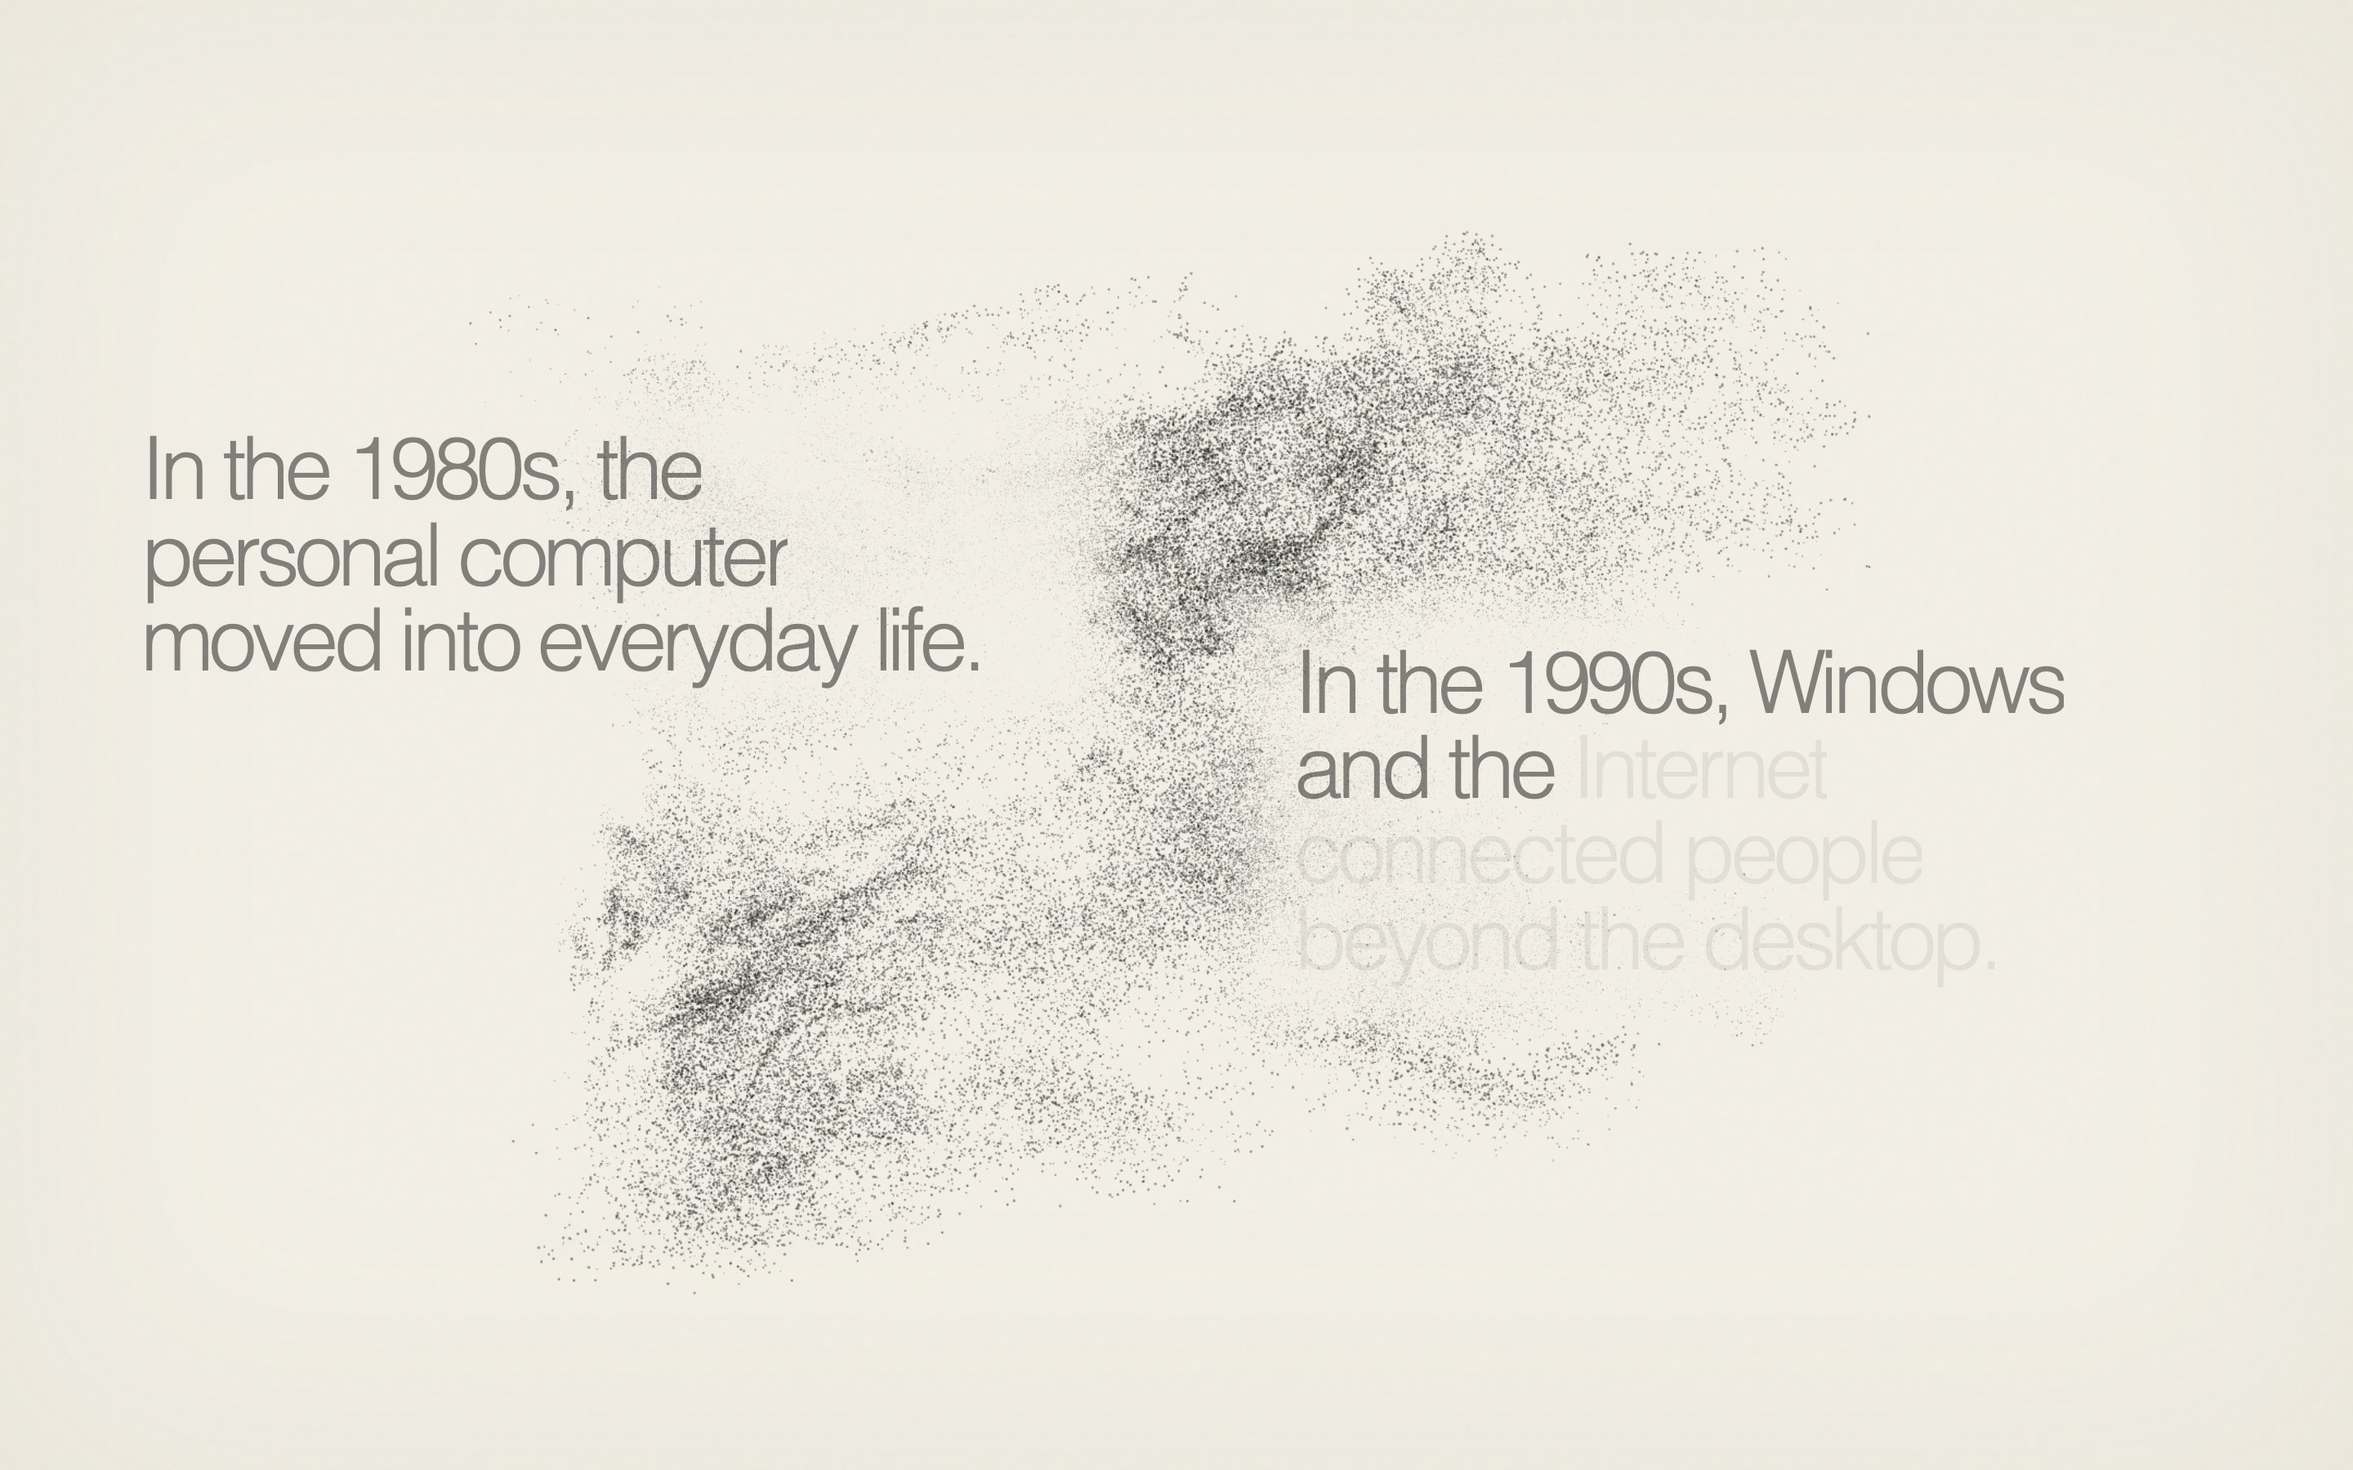
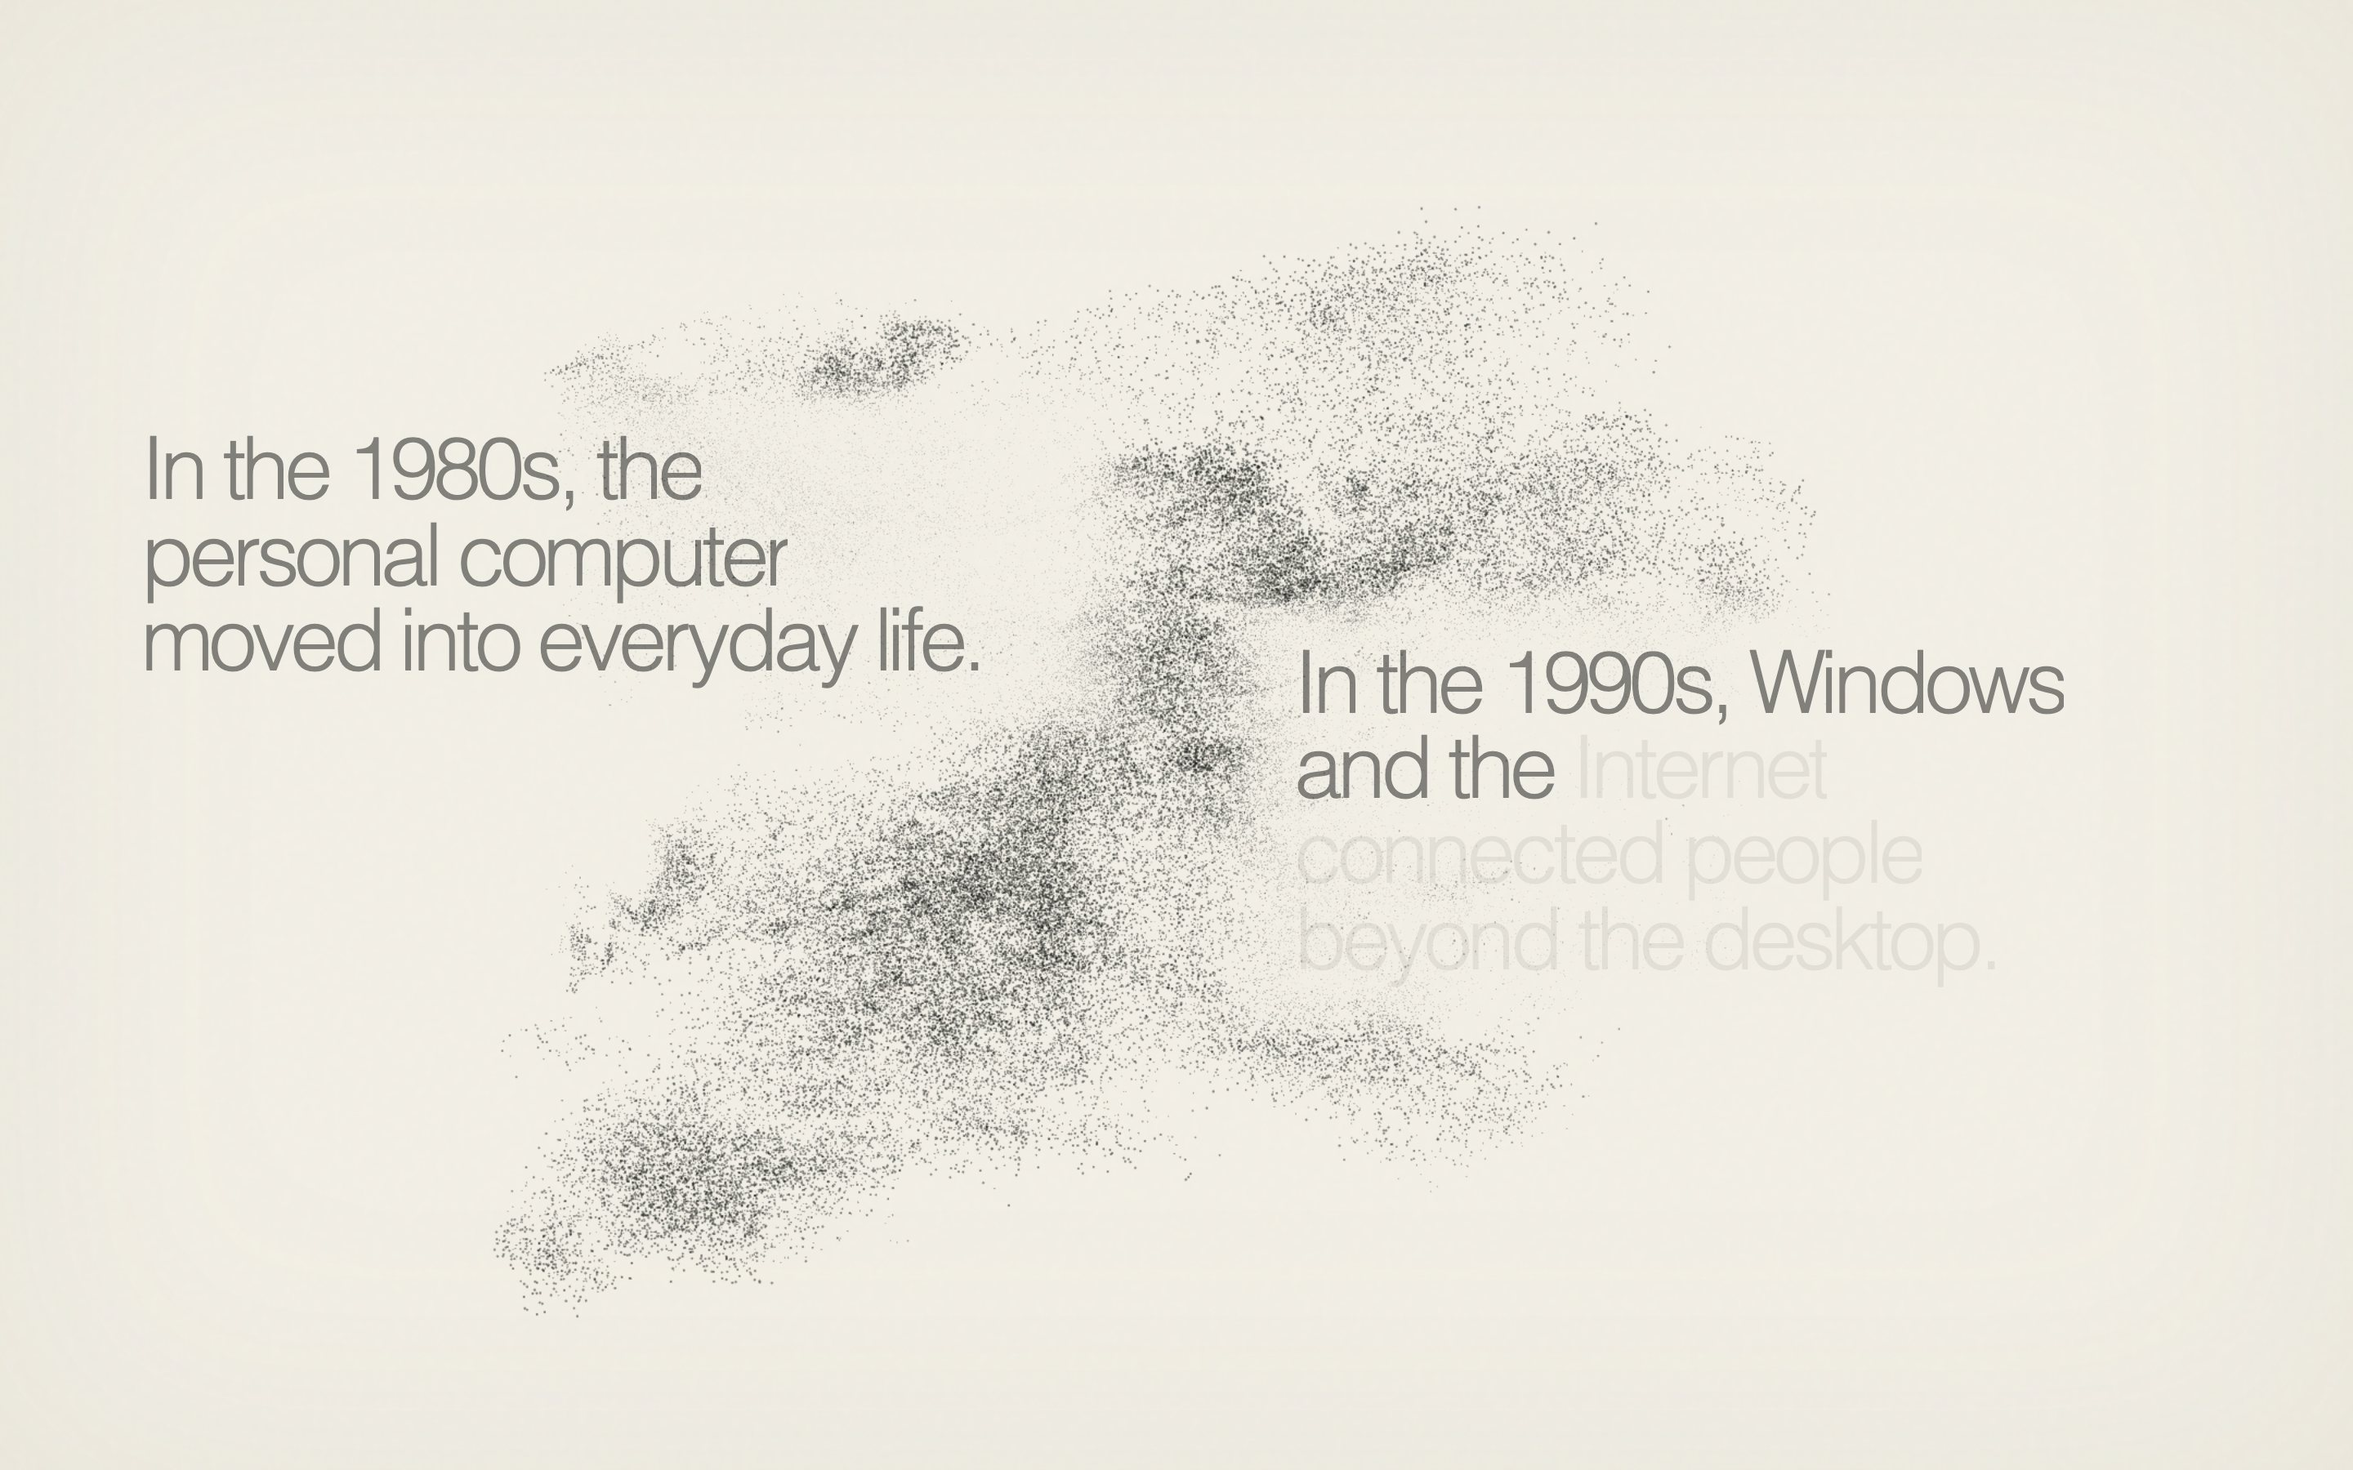
Refine launch smoke and closing
Copilot-Session: fb138555-df43-4c0c-b323-42f33e170b86

Changed region(s): [[0.2188, 0.1556, 0.7812, 0.8711], [0.25, 0.2178, 0.4062, 0.28], [0.4375, 0.2178, 0.4688, 0.2489]]

diff --git a/site/src/geometry/scenes.ts b/site/src/geometry/scenes.ts
@@ -193,57 +193,43 @@ function windowsInternetScene(): WeightedSampler[] {
     4.35,
     3.0,
     "HTTP://",
-    6,
+    5,
   );
   const mailWindow = interfacePanelSamplers(
     [0.1, -0.42, 0.2],
     3.45,
     2.35,
     "MAIL @",
-    5,
+    4,
   );
   const terminalWindow = interfacePanelSamplers(
     [-2.05, -1.28, 0.72],
     2.45,
     1.35,
     "> CONNECT",
-    4,
-  );
-  const contactsWindow = interfacePanelSamplers(
-    [1.48, 1.02, 0.56],
-    1.85,
-    1.55,
-    "ONLINE",
-    5,
+    3,
   );
   const windowsPanes = paneSamplers([-2.7, 1.55, 0.66], 0.24);
   const envelope = envelopeSamplers([0.72, 0.12, 0.48], 0.95, 0.58);
   const nodeCenters: Vec3[] = [
-    [-3.25, 1.95, -0.75],
-    [-2.75, -2.0, 0.3],
-    [-1.1, 2.05, 0.15],
-    [0.65, 1.95, -0.35],
-    [1.85, 1.75, 0.6],
-    [2.35, 0.35, -0.45],
-    [1.85, -1.55, 0.55],
-    [0.25, -1.95, -0.2],
+    [-3.05, 1.75, -0.7],
+    [-2.6, -1.85, 0.3],
+    [0.25, 1.88, -0.35],
+    [2.3, 0.45, -0.45],
+    [1.55, -1.62, 0.55],
   ];
   const nodes = nodeCenters.map((center) =>
     sphereShellSampler(center, 0.11, 0.035),
   );
-  const connections = nodeCenters.flatMap((center, index) => {
+  const connections = nodeCenters.map((center, index) => {
     const next = nodeCenters[(index + 1) % nodeCenters.length];
-    const opposite = nodeCenters[(index + 3) % nodeCenters.length];
-    return [
-      bezierSampler(
-        center,
-        [center[0] * 0.75, center[1] * 0.35, center[2] + 0.35],
-        [next[0] * 0.75, next[1] * 0.35, next[2] - 0.35],
-        next,
-        0.022,
-      ),
-      lineSampler(center, opposite, 0.018),
-    ];
+    return bezierSampler(
+      center,
+      [center[0] * 0.75, center[1] * 0.35, center[2] + 0.35],
+      [next[0] * 0.75, next[1] * 0.35, next[2] - 0.35],
+      next,
+      0.022,
+    );
   });
   const protocolLabels = [
     textSampler("TCP/IP", {
@@ -267,13 +253,12 @@ function windowsInternetScene(): WeightedSampler[] {
   ];
 
   return [
-    { weight: 0.18, sample: choiceSampler(browserWindow) },
-    { weight: 0.18, sample: choiceSampler(mailWindow) },
-    { weight: 0.13, sample: choiceSampler(terminalWindow) },
-    { weight: 0.1, sample: choiceSampler(contactsWindow) },
-    { weight: 0.07, sample: choiceSampler(windowsPanes) },
-    { weight: 0.08, sample: choiceSampler(envelope) },
-    { weight: 0.16, sample: choiceSampler(connections) },
+    { weight: 0.24, sample: choiceSampler(browserWindow) },
+    { weight: 0.22, sample: choiceSampler(mailWindow) },
+    { weight: 0.14, sample: choiceSampler(terminalWindow) },
+    { weight: 0.08, sample: choiceSampler(windowsPanes) },
+    { weight: 0.1, sample: choiceSampler(envelope) },
+    { weight: 0.12, sample: choiceSampler(connections) },
     { weight: 0.06, sample: choiceSampler(nodes) },
     { weight: 0.04, sample: choiceSampler(protocolLabels) },
   ];
@@ -404,21 +389,16 @@ function agentsScene(): WeightedSampler[] {
     sphereShellSampler(coreCenter, 0.82, 0.05),
     ringSampler(coreCenter, 1.02, 1.02, "xy", 0.045),
     ringSampler(coreCenter, 1.08, 0.72, "xz", 0.045),
-    ringSampler(coreCenter, 0.85, 1.05, "yz", 0.045),
   ];
   const systemSpecs: Array<{ center: Vec3; label: string }> = [
-    { center: [-2.75, 1.42, 0.48], label: "PLAN" },
-    { center: [-1.42, 1.92, 0.18], label: "MEMORY" },
-    { center: [0.08, 2.05, 0.58], label: "SEARCH" },
-    { center: [1.58, 1.82, 0.22], label: "CODE" },
-    { center: [2.88, 1.28, 0.62], label: "TEST" },
-    { center: [3.28, 0.18, 0.24], label: "REVIEW" },
-    { center: [2.92, -1.02, 0.64], label: "DEPLOY" },
-    { center: [1.62, -1.66, 0.22], label: "TOOLS" },
-    { center: [0.15, -1.92, 0.58], label: "DATA" },
-    { center: [-1.35, -1.72, 0.22], label: "MAIL" },
-    { center: [-2.62, -1.18, 0.62], label: "DOCS" },
-    { center: [-3.02, 0.08, 0.26], label: "VISION" },
+    { center: [-2.65, 1.25, 0.48], label: "PLAN" },
+    { center: [-1.2, 1.85, 0.18], label: "MEMORY" },
+    { center: [1.2, 1.85, 0.58], label: "CODE" },
+    { center: [2.7, 1.15, 0.22], label: "DEPLOY" },
+    { center: [2.78, -0.9, 0.62], label: "TOOLS" },
+    { center: [1.25, -1.65, 0.24], label: "DATA" },
+    { center: [-1.25, -1.7, 0.64], label: "VISION" },
+    { center: [-2.75, -0.75, 0.22], label: "SEARCH" },
   ];
   const systemPanels = systemSpecs.flatMap(({ center, label }) =>
     labeledPanelSamplers(center, 1.05, 0.62, label),
@@ -428,7 +408,6 @@ function agentsScene(): WeightedSampler[] {
   );
   const systemLinks = systemSpecs.flatMap(({ center }, index) => {
     const next = systemSpecs[(index + 1) % systemSpecs.length].center;
-    const across = systemSpecs[(index + 4) % systemSpecs.length].center;
     return [
       bezierSampler(
         coreCenter,
@@ -438,15 +417,6 @@ function agentsScene(): WeightedSampler[] {
         0.025,
       ),
       lineSampler(center, next, 0.02),
-      index % 2 === 0
-        ? bezierSampler(
-            center,
-            [center[0] * 0.4, center[1] * 0.2, 0.8],
-            [across[0] * 0.4, across[1] * 0.2, -0.7],
-            across,
-            0.018,
-          )
-        : lineSampler(center, next, 0.02),
     ];
   });
   const tokenStreams = [
@@ -457,26 +427,12 @@ function agentsScene(): WeightedSampler[] {
       [3.6, -1.55, 0.75],
       0.035,
     ),
-    bezierSampler(
-      [-3.7, -1.65, 0.7],
-      [-1.75, -0.55, -0.85],
-      [1.55, -0.45, 0.9],
-      [3.7, 1.68, -0.7],
-      0.035,
-    ),
-    bezierSampler(
-      [-2.9, 2.28, 0.45],
-      [-0.7, 1.05, -0.95],
-      [0.85, -1.25, 0.95],
-      [2.75, -2.12, -0.45],
-      0.03,
-    ),
   ];
 
   return [
-    { weight: 0.18, sample: choiceSampler(core) },
+    { weight: 0.22, sample: choiceSampler(core) },
     {
-      weight: 0.08,
+      weight: 0.1,
       sample: textSampler("AI", {
         center: coreCenter,
         width: 0.88,
@@ -487,10 +443,10 @@ function agentsScene(): WeightedSampler[] {
         scanStep: 2,
       }),
     },
-    { weight: 0.28, sample: choiceSampler(systemPanels) },
+    { weight: 0.32, sample: choiceSampler(systemPanels) },
     { weight: 0.06, sample: choiceSampler(systemNodes) },
-    { weight: 0.28, sample: choiceSampler(systemLinks) },
-    { weight: 0.12, sample: choiceSampler(tokenStreams) },
+    { weight: 0.24, sample: choiceSampler(systemLinks) },
+    { weight: 0.06, sample: choiceSampler(tokenStreams) },
   ];
 }
 
@@ -553,6 +509,14 @@ function rocketScene(): WeightedSampler[] {
       0.024,
     ),
   );
+  const smoke = [
+    ellipsoidVolumeSampler([rocketX, -2.02, 2.12], [0.38, 0.2, 0.18]),
+    ellipsoidVolumeSampler([0.55, -1.94, 2.08], [0.65, 0.25, 0.2]),
+    ellipsoidVolumeSampler([1.8, -1.92, 2.15], [0.68, 0.25, 0.22]),
+    ellipsoidVolumeSampler([-0.08, -1.8, 2.05], [0.76, 0.32, 0.18]),
+    ellipsoidVolumeSampler([2.42, -1.78, 2.1], [0.74, 0.32, 0.2]),
+    ellipsoidVolumeSampler([0.95, -1.48, 2.18], [0.48, 0.56, 0.18]),
+  ];
   const tower = [
     lineSampler([2.05, -2.0, -0.22], [2.05, 1.62, -0.22], 0.035),
     lineSampler([2.45, -2.0, -0.22], [2.45, 1.62, -0.22], 0.035),
@@ -582,13 +546,14 @@ function rocketScene(): WeightedSampler[] {
   const crowd = crowdSilhouetteSamplers();
 
   return [
-    { weight: 0.3, sample: body },
-    { weight: 0.04, sample: interstage },
-    { weight: 0.1, sample: nose },
-    { weight: 0.08, sample: choiceSampler(stageBands) },
-    { weight: 0.19, sample: choiceSampler(tower) },
-    { weight: 0.1, sample: choiceSampler(horizon) },
-    { weight: 0.19, sample: choiceSampler(crowd) },
+    { weight: 0.27, sample: body },
+    { weight: 0.035, sample: interstage },
+    { weight: 0.085, sample: nose },
+    { weight: 0.07, sample: choiceSampler(stageBands) },
+    { weight: 0.12, sample: choiceSampler(smoke) },
+    { weight: 0.17, sample: choiceSampler(tower) },
+    { weight: 0.09, sample: choiceSampler(horizon) },
+    { weight: 0.16, sample: choiceSampler(crowd) },
   ];
 }
 

diff --git a/site/src/styles.css b/site/src/styles.css
@@ -227,7 +227,7 @@ footer {
 
 .closing {
   display: flex;
-  min-height: 88svh;
+  min-height: 100svh;
   padding: clamp(5rem, 12vw, 12rem) clamp(1.25rem, 6vw, 7rem);
   align-items: center;
   justify-content: center;
@@ -246,7 +246,6 @@ footer {
 footer {
   display: flex;
   padding: 1.5rem clamp(1.25rem, 3vw, 3rem);
-  border-top: 1px solid var(--hairline);
   justify-content: center;
   gap: 2rem;
   color: var(--muted);

diff --git a/site/index.html b/site/index.html
@@ -106,7 +106,9 @@
       </section>
 
       <section class="closing" aria-labelledby="closing-title">
-        <h2 id="closing-title">A history of computing is a history of becoming.</h2>
+        <h2 id="closing-title">
+          Microsoft's history of computing is a history of becoming.
+        </h2>
       </section>
     </main>
 

diff --git a/site/SCENE_DESIGN.md b/site/SCENE_DESIGN.md
@@ -42,11 +42,10 @@ scrolling advances.
 ## 3. 1990s — Windows and the Internet
 
 - **Copy:** `In the 1990s, Windows and the Internet connected people beyond the desktop.`
-- **Geometry:** A dense software-only composition of overlapping browser,
-  email, terminal, contacts, and Windows-pane interfaces labeled `HTTP://`,
-  `MAIL @`, `> CONNECT`, `ONLINE`, `TCP/IP`, and `WWW`. Network nodes and
-  cross-links fill the surrounding field; there is no table, workstation, or
-  person.
+- **Geometry:** A software-only composition of overlapping browser, email,
+  terminal, and Windows-pane interfaces labeled `HTTP://`, `MAIL @`,
+  `> CONNECT`, `TCP/IP`, and `WWW`. Five network nodes form one restrained
+  perimeter path; there is no table, workstation, or person.
 - **Depth:** Interface layers overlap across several shallow planes while
   network paths weave through and behind them.
 - **Camera:** Wide enough to hold the intentionally complicated system without
@@ -81,10 +80,10 @@ scrolling advances.
 ## 6. 2020s — Agent fleets
 
 - **Copy:** `In the 2020s, Microsoft powered intelligence across people, software, and enterprise systems.`
-- **Geometry:** A central `AI` core surrounded by twelve
-  specialized panels (`PLAN`, `MEMORY`, `SEARCH`, `CODE`, `TEST`, `REVIEW`,
-  `DEPLOY`, `TOOLS`, `DATA`, `MAIL`, `DOCS`, and `VISION`), token streams,
-  rings, and numerous cross-links. There is no single chat or TUI window.
+- **Geometry:** A central `AI` core surrounded by eight specialized panels
+  (`PLAN`, `MEMORY`, `CODE`, `DEPLOY`, `TOOLS`, `DATA`, `VISION`, and
+  `SEARCH`), one token stream, and a restrained ring of links. There is no
+  single chat or TUI window.
 - **Depth:** The core sits forward while specialist panels occupy several
   planes and the connection mesh passes through the system.
 - **Camera:** Wide enough to preserve the deliberately dense fleet topology.
@@ -108,8 +107,8 @@ scrolling advances.
 - **Copy:** `2026 and Beyond: AI can power an age of abundance, expanding agency, discovery, and possibility.`
 - **Geometry:** A tall staged orbital rocket with an ogive fairing, launch
   tower and service arms, a Florida-like horizon, and 28 stationary foreground
-  crowd silhouettes. Exhaust and ground-smoke geometry are intentionally
-  omitted.
+  crowd silhouettes. Ground smoke is collapsed and invisible on the pad, then
+  expands upward and outward after liftoff begins.
 - **Depth:** The crowd occupies the foreground, the pad and tower occupy the
   middle plane, and the rocket sits slightly behind them before lifting.
 - **Camera:** Nearly frontal and vertically open, like a distant public launch
@@ -119,8 +118,9 @@ scrolling advances.
 - **Intent:** AI is framed as infrastructure for greater human agency,
   accelerated discovery, and capabilities that become broadly available.
 - **End state:** Late-scroll shader displacement raises only the rocket by a
-  full two world units. The crowd, tower, and horizon remain fixed while the
-  statement fades and the stage yields to the closing line.
+  full two world units while a separately masked smoke field expands from the
+  pad. The crowd, tower, and horizon remain fixed while the statement fades
+  and the stage yields to the closing line.
 
 ## Transition language
 

diff --git a/site/TECHNICAL_DESIGN.md b/site/TECHNICAL_DESIGN.md
@@ -146,8 +146,10 @@ nearly formed, reaches a partial lift at the final scene's settled scroll
 position, and reaches `1` during the pinned exit hold. The vertex shader
 derives a mask from the final target's rocket-only X/Y/Z region, so the vehicle
 rises two world units while the crowd, tower, and horizon remain stationary.
-This avoids another per-particle attribute and keeps the renderer at one draw
-call.
+A second final-target depth band identifies smoke particles. Their positions
+stay collapsed at the pad with zero alpha until liftoff begins, then expand
+upward and outward with the same finale uniform. Both masks avoid another
+per-particle attribute and keep the renderer at one draw call.
 
 Each scene definition also supplies interpolated:
 

diff --git a/README.md b/README.md
@@ -6,7 +6,7 @@ An original scroll-driven WebGL essay marking Microsoft's first fifty years.
 One persistent field of particles reorganizes from the first BASIC source
 listing through PCs, Windows and the Internet, connected enterprise workflows,
 cloud datacenters, agent fleets, the Microsoft mark, and a rocket lifting
-toward an AI-enabled age of abundance.
+toward an AI-enabled age of abundance as launch smoke rises from the pad.
 
 **This is an unofficial personal tribute. It is not sponsored or endorsed by
 Microsoft.**
